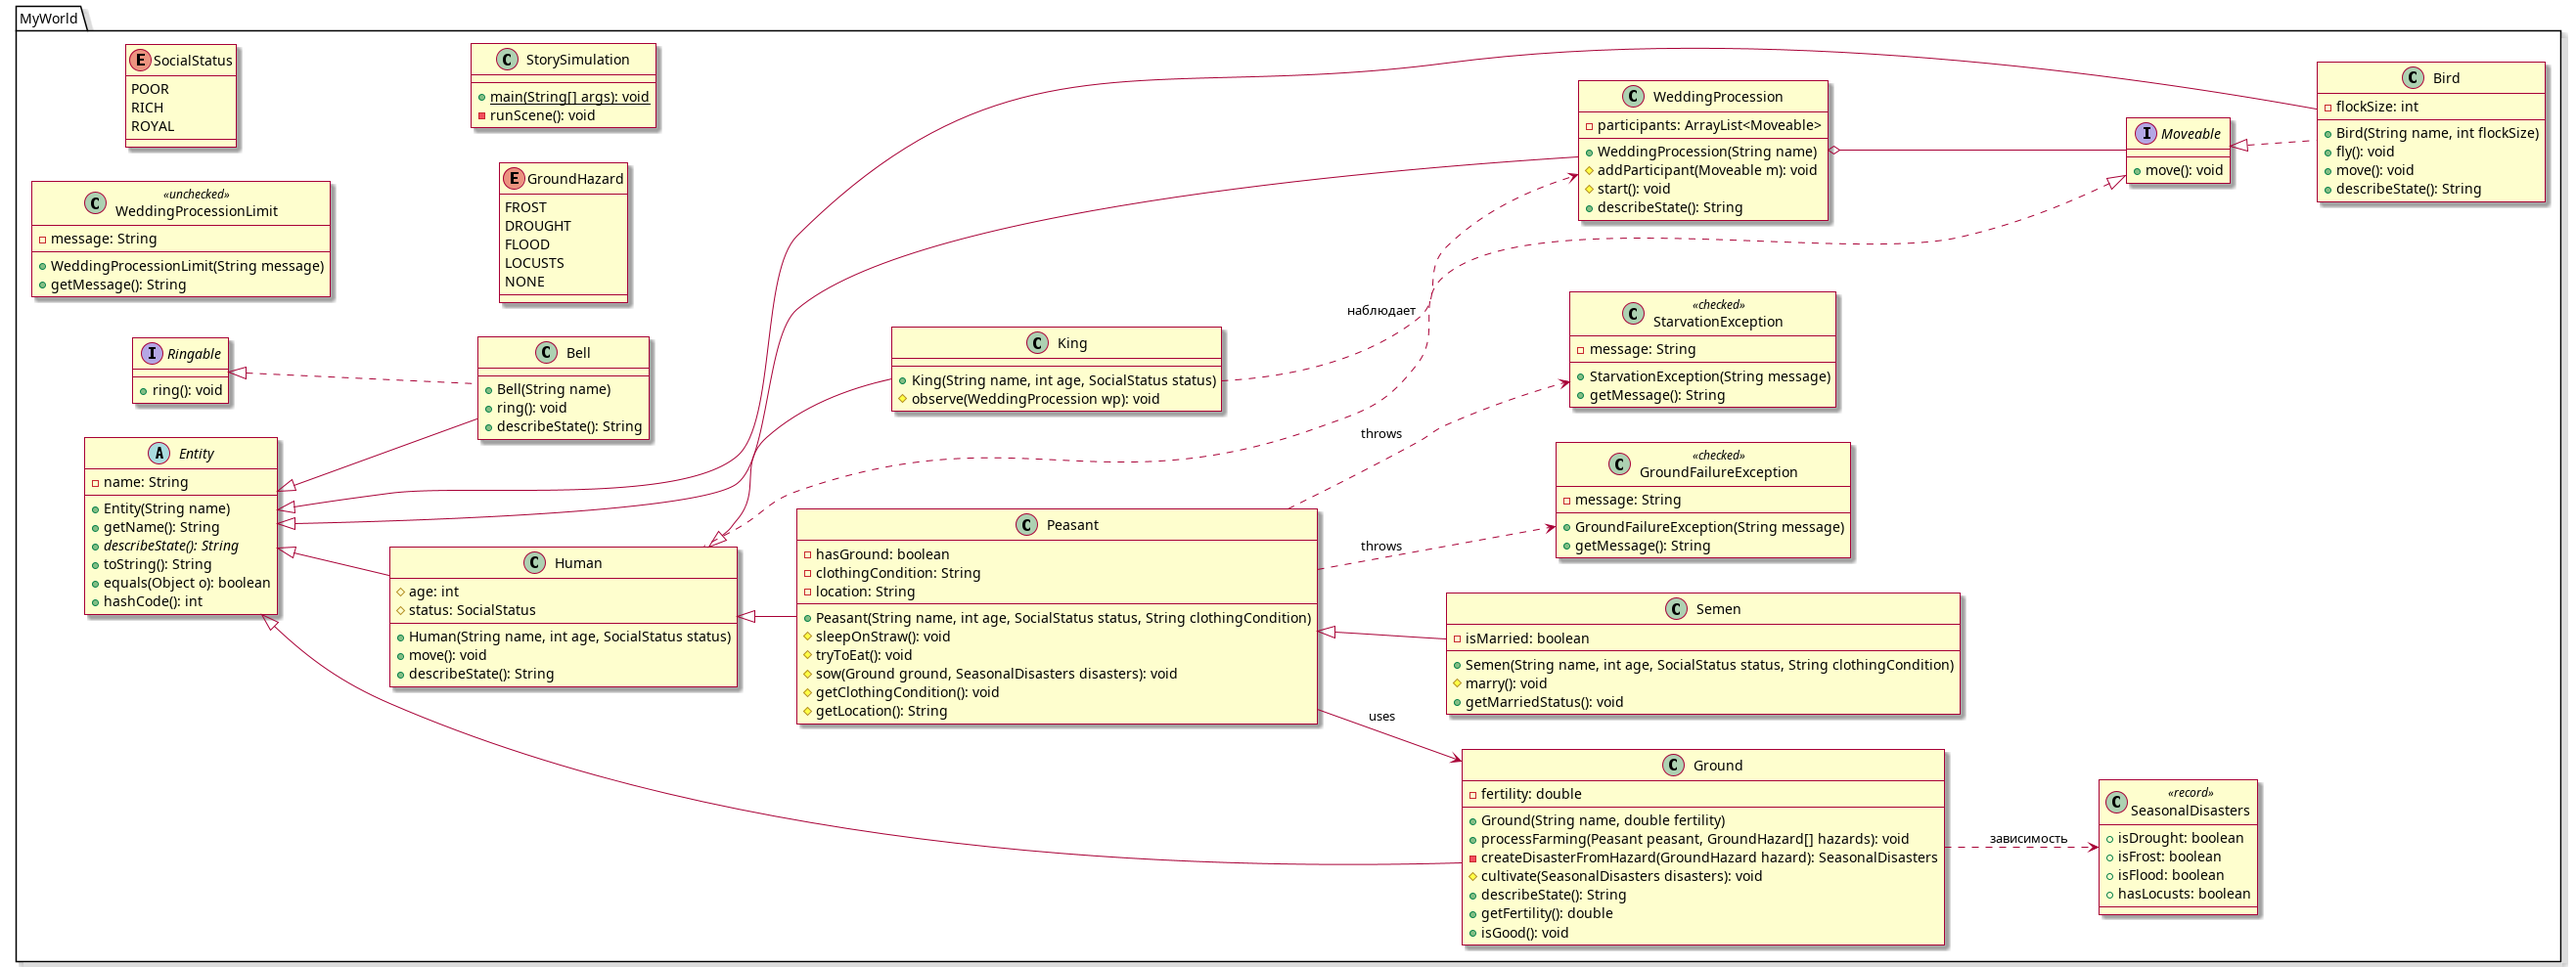
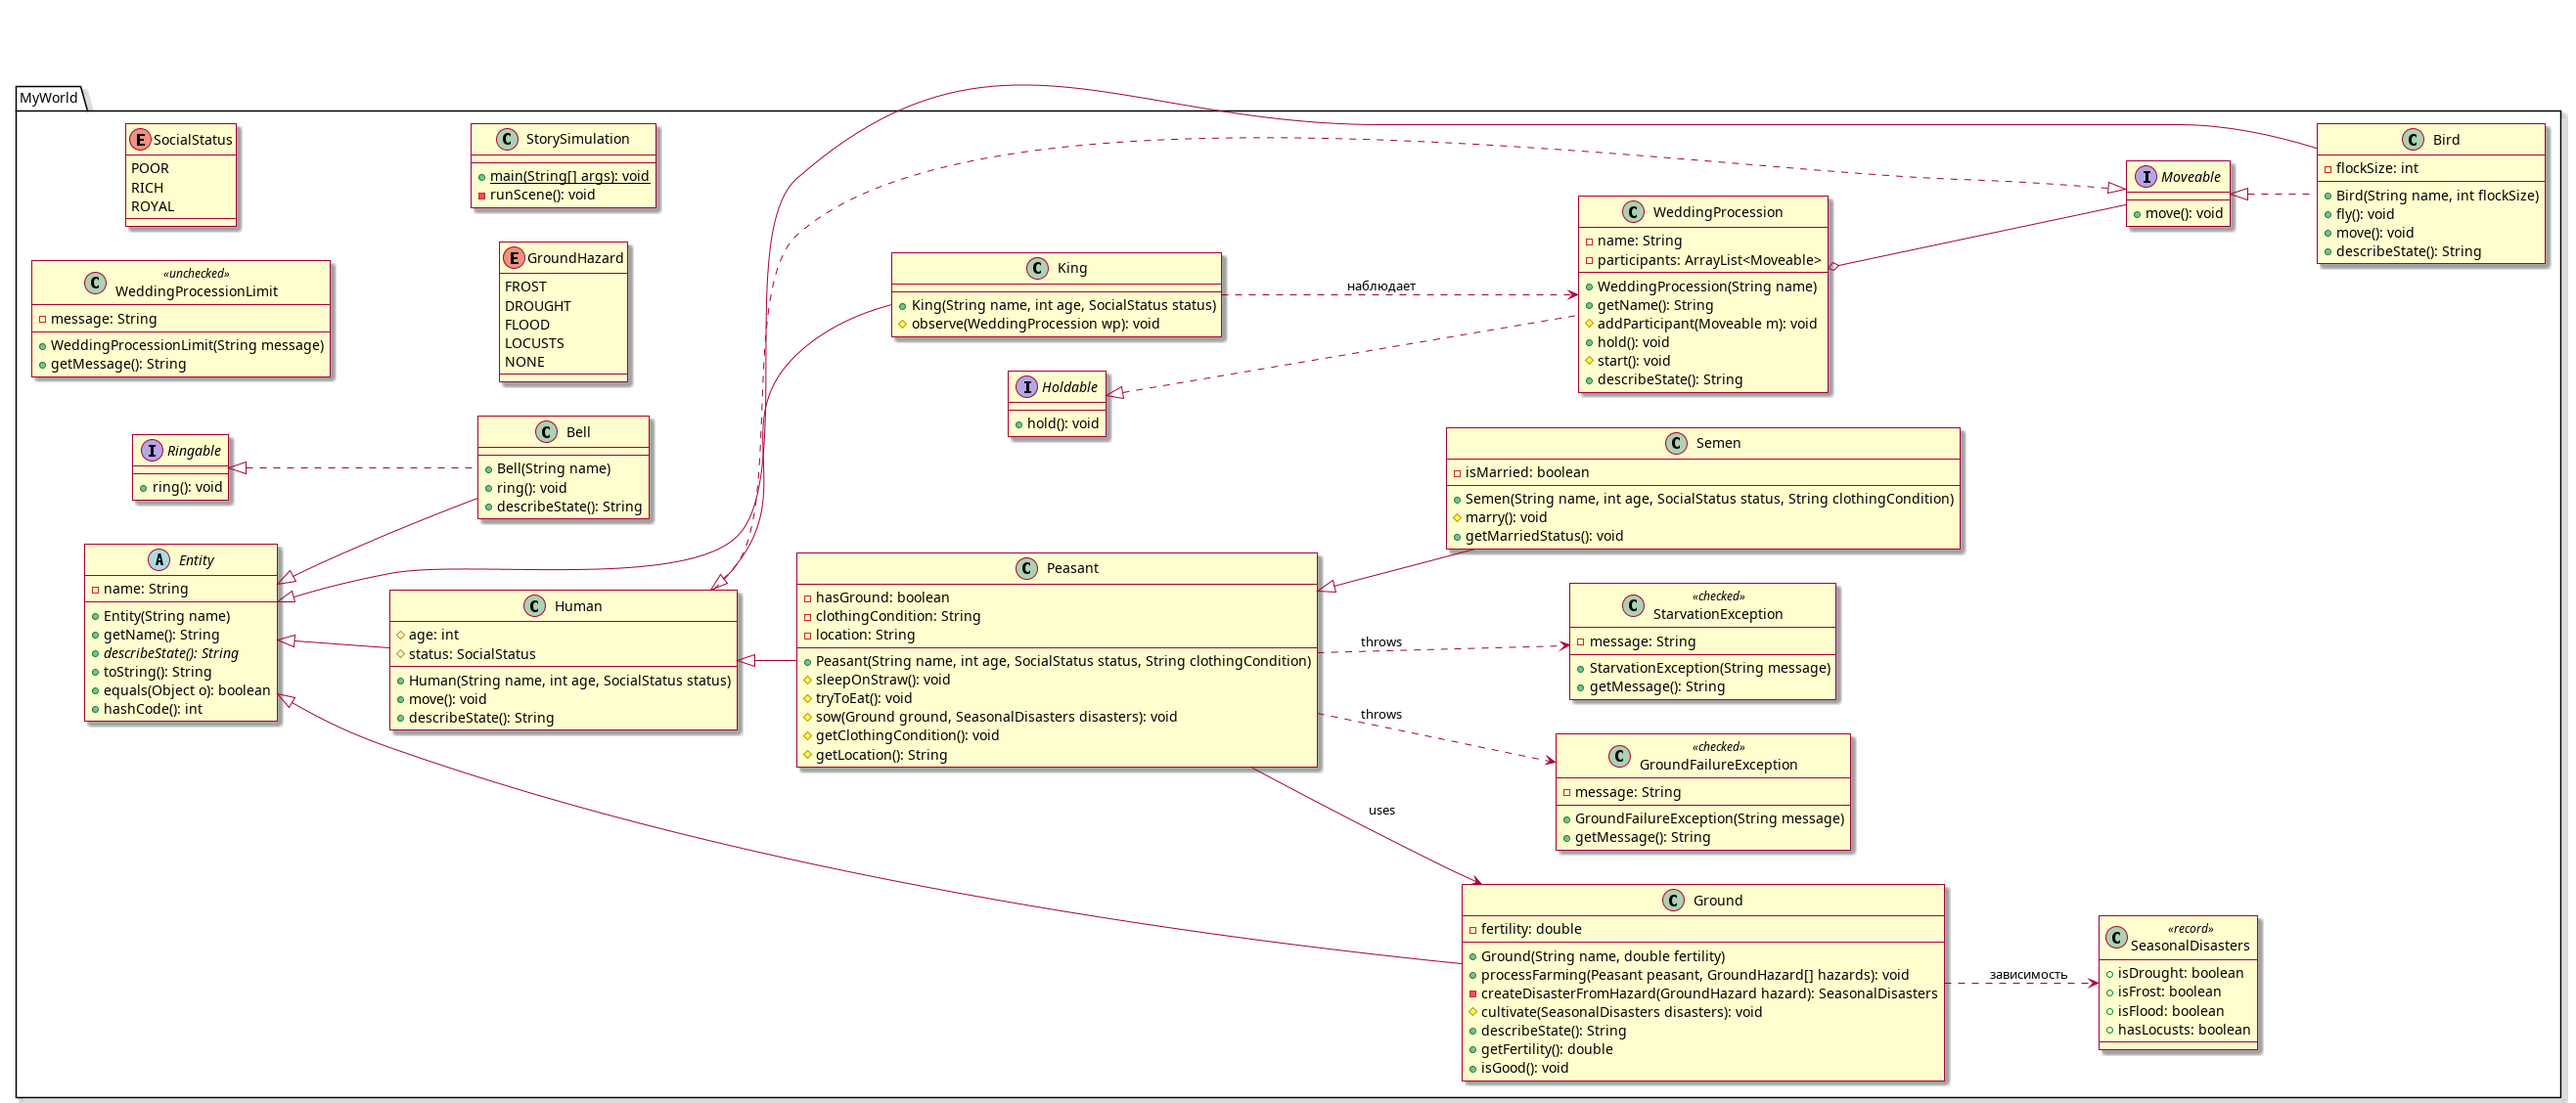
ready

diff --git a/WeddingProcession.java b/WeddingProcession.java
@@ -1,26 +1,37 @@
+import interfaces.Holdable;
 import interfaces.Moveable;
 import java.util.ArrayList;
 
-public class WeddingProcession extends Entity {
+public class WeddingProcession implements Holdable {
+    private String name;
     private ArrayList<Moveable> participants;
 
     public WeddingProcession(String name) {
-        super(name);
+        this.name = name;
         this.participants = new ArrayList<>();
+    }
+
+    public String getName() {
+        return name;
     }
 
     protected void addParticipant(Moveable m) {
         participants.add(m);
     }
 
+    @Override
+    public void hold() {
+        System.out.println("Шествие " + getName() + " проводится.");
+    }
+
     protected void start() {
+        hold();
         System.out.println("Ко дворцу потянулось " + getName() + " шествие...");
         for (Moveable m : participants) {
             m.move();
         }
     }
 
-    @Override
     public String describeState() {
         return getName() + ", участников: " + participants.size();
     }

diff --git a/StorySimulation.java b/StorySimulation.java
@@ -24,7 +24,9 @@ public class StorySimulation {
         birds.fly();
         
         WeddingProcession procession = new WeddingProcession("cвадебное");
+        // Добавление участников шествия
         procession.addParticipant(birds);
+        
         
         King king = new King("Король", 60, SocialStatus.ROYAL);
         king.observe(procession);

diff --git a/interfaces/Holdable.java b/interfaces/Holdable.java
@@ -1,0 +1,5 @@
+package interfaces;
+
+public interface Holdable {
+    void hold();
+}
